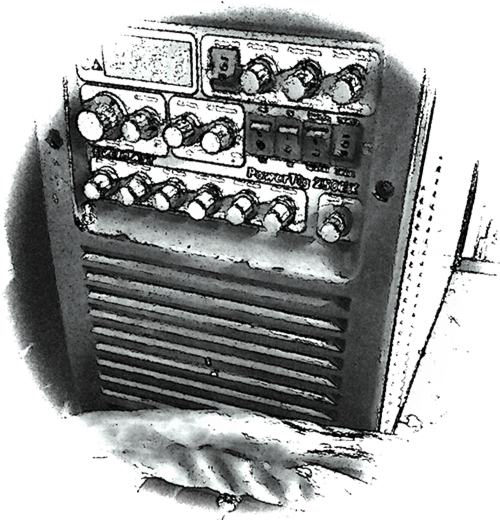
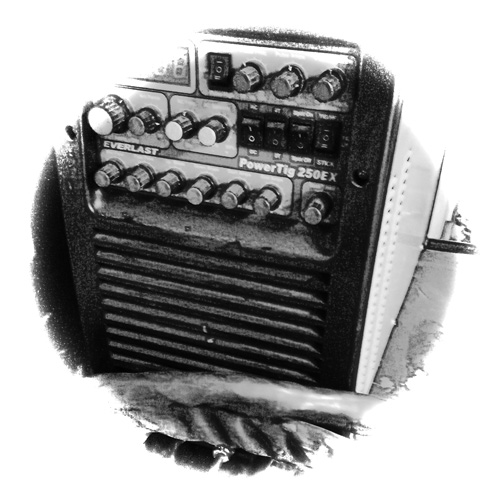
Update prototype page with images and copy, tweak document display order.

diff --git a/app/assets/stylesheets/framework_and_overrides.css.scss b/app/assets/stylesheets/framework_and_overrides.css.scss
@@ -129,7 +129,7 @@ nav:not(.expanded) {
         color: #ddd;
     }
     h2 {
-        font-size: 2.4em;
+        font-size: 3em;
         line-height: 1.2em;
         letter-spacing: 5px;
     }

diff --git a/app/models/document.rb b/app/models/document.rb
@@ -5,7 +5,8 @@ class Document < ActiveRecord::Base
   validates :title, :slug, presence: true
   validates :slug, uniqueness: true
 
-  scope :recent, ->(how_many) { order(updated_at: :desc).limit(how_many) }
+  scope :recent, ->(how_many) { order(created_at: :desc).limit(how_many) }
+  scope :recently_updated, ->(how_many) { order(updated_at: :desc).limit(how_many) }
   scope :of_interest, ->(interest) { where(category: interest) }
 
   before_validation :extract_meta_data_from_title

diff --git a/app/controllers/visitors_controller.rb b/app/controllers/visitors_controller.rb
@@ -1,7 +1,7 @@
 class VisitorsController < ApplicationController
   def index
     @articles = Article.recent(5)
-    @projects = Project.recent(5)
+    @projects = Project.recently_updated(5)
   end
 
   def prototyping

diff --git a/app/controllers/projects_controller.rb b/app/controllers/projects_controller.rb
@@ -2,7 +2,7 @@ class ProjectsController < ApplicationController
   layout 'page'
 
   def index
-    @projects = Project.order(created_at: :desc)
+    @projects = Project.order(updated_at: :desc)
   end
 
   def show
